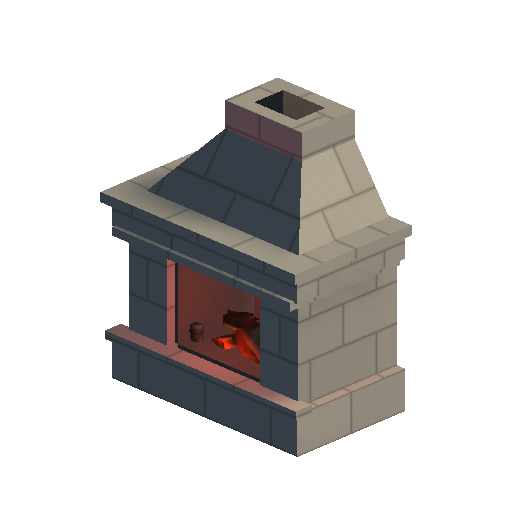
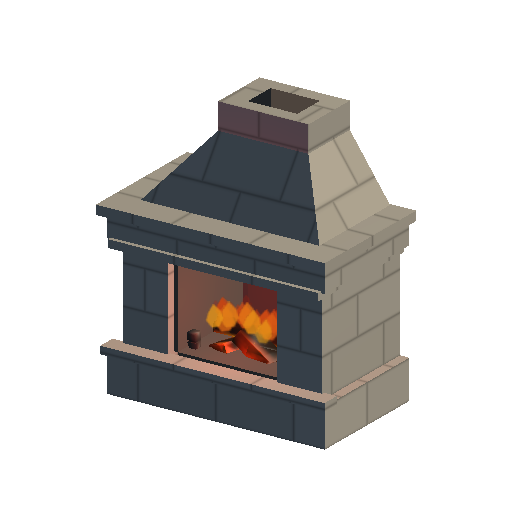
Improve fireplace flame motion, sound and placement

diff --git a/src/game/objects/fire/Fire.js b/src/game/objects/fire/Fire.js
@@ -76,9 +76,12 @@ export class Fire {
     if (!arePositiveFiniteNumbers(width, height, depth)) {
       return;
     }
-    const size = Math.min(width, depth, height * 0.18);
-    const count = Math.min(2048, Math.max(16, Math.ceil(width * depth / (size * size) * 2)));
-    const lifetime = 0.42;
+    // Broader, overlapping tongues stay connected to the fuel instead of
+    // reading as a shower of tiny upward-moving dots.
+    const size = Math.min(width, depth, height * 0.28);
+    const count = Math.min(2048, Math.max(16, Math.ceil(width * depth / (size * size) * 1.2)));
+    const lifetime = 0.85;
+    const rise = Math.max(0, height - size * 2) / lifetime;
     const requestedIntensity = definition.intensity ?? 1;
     const intensity = Number.isFinite(requestedIntensity) ? Math.max(0, requestedIntensity) : 1;
     const emitter = new pc.Entity("Rising fire particles");
@@ -104,20 +107,20 @@ export class Fire {
       emitterExtents: new pc.Vec3(Math.max(0, width - size * 2), 0, Math.max(0, depth - size * 2)),
       colorMap: app.assets.find("castleFireParticle", "texture").resource,
       orientation: pc.PARTICLEORIENTATION_SCREEN,
-      localVelocityGraph: new pc.CurveSet([[0, 0, 1, 0], [0, (height - size * 2) / lifetime, 1, (height - size * 2) / lifetime], [0, 0, 1, 0]]),
-      scaleGraph: new pc.Curve([0, size, 0.3, size, 1, 0]),
-      scaleGraph2: new pc.Curve([0, size * 0.45, 0.3, size * 0.65, 1, 0]),
-      localVelocityGraph2: new pc.CurveSet([[0, 0, 1, 0], [0, (height - size * 2) * 0.5 / lifetime, 1, (height - size * 2) * 0.5 / lifetime], [0, 0, 1, 0]]),
+      localVelocityGraph: new pc.CurveSet([[0, -size * 0.2, 0.5, size * 0.35, 1, -size * 0.15], [0, rise * 0.6, 0.35, rise * 1.2, 1, rise * 0.8], [0, -size * 0.12, 1, size * 0.12]]),
+      scaleGraph: new pc.Curve([0, size * 0.8, 0.2, size, 0.65, size * 0.6, 1, 0]),
+      scaleGraph2: new pc.Curve([0, size * 0.65, 0.25, size * 0.8, 0.7, size * 0.35, 1, 0]),
+      localVelocityGraph2: new pc.CurveSet([[0, size * 0.2, 0.5, -size * 0.35, 1, size * 0.15], [0, rise * 0.4, 0.35, rise * 0.85, 1, rise * 0.6], [0, size * 0.12, 1, -size * 0.12]]),
       colorGraph: new pc.CurveSet([[0, 1, 1, 0.74], [0, 0.72, 0.42, 0.3, 1, 0.025], [0, 0.08, 1, 0]]),
-      alphaGraph: new pc.Curve([0, 0, 0.02, 0.8, 0.58, 0.5, 1, 0]),
-      alignToMotion: true,
-      stretch: height * 0.14,
+      alphaGraph: new pc.Curve([0, 0, 0.12, 0.85, 0.45, 0.75, 0.8, 0.25, 1, 0]),
+      alignToMotion: false,
+      stretch: 0,
       startAngle: -8,
       startAngle2: 8,
     });
     root.addChild(emitter);
     if (intensity > 0) {
-      new FireAudio(root, app, runtime, 0.12);
+      new FireAudio(root, app, runtime, 0.65);
     }
   }
 

diff --git a/test/unit/game/objects/fire/fire.test.js b/test/unit/game/objects/fire/fire.test.js
@@ -82,10 +82,14 @@ test('one volume creates one emitter with derived footprint, height and density'
   // Box spawning already applies world rotation; avoid rotating it again at render.
   assert.equal(particles.localSpace, false);
   assert.equal(particles.intensity, 1.08);
-  assert.equal(particles.emitterExtents.x, 1.6400000000000001);
-  assert.equal(particles.emitterExtents.z, 0.64);
-  assert.equal(particles.numParticles, 124);
-  assert.equal(particles.localVelocityGraph.keys[1][1], 0.64 / 0.42);
+  assert.equal(particles.emitterExtents.x, 1.44);
+  assert.equal(particles.emitterExtents.z, 0.43999999999999995);
+  assert.equal(particles.numParticles, 31);
+  // Motion varies through the lifetime, while remaining an upward flow.
+  const vertical = particles.localVelocityGraph.keys[1];
+  assert.ok(vertical[1] > 0 && vertical[3] > vertical[1] && vertical[5] > 0);
+  assert.equal(particles.alignToMotion, false);
+  assert.equal(particles.stretch, 0);
   fire.destroy();
   assert.equal(fire.entity.destroyed, true);
 });
@@ -113,8 +117,8 @@ test('intensity changes brightness independently of the box and zero disables fl
     const emitter = fire.entity.children[0].children[0];
     assert.equal(emitter.enabled, intensity > 0);
     assert.equal(emitter.particlesystem.intensity, 1.08 * intensity);
-    assert.equal(emitter.particlesystem.emitterExtents.x, 1.6400000000000001);
-    assert.equal(emitter.particlesystem.localVelocityGraph.keys[1][1], 0.64 / 0.42);
+    assert.equal(emitter.particlesystem.emitterExtents.x, 1.44);
+    assert.ok(emitter.particlesystem.localVelocityGraph.keys[1][1] > 0);
     fire.destroy();
   }
 });

diff --git a/test/unit/game/generator/castle/rooms/kitchen/kitchen-room-generator.test.js b/test/unit/game/generator/castle/rooms/kitchen/kitchen-room-generator.test.js
@@ -192,6 +192,21 @@ test("active authored pipeline publishes kitchen objects and replaces old seeded
   assert.ok(bowls.some(bowl => bowl.color === "#b16832" && bowl.items.every(item => item.object === "GreenVegetable")));
   assert.ok(first.find(item => item.object === "Fireplace").chimneyHeight > 9,
     "basement chimney reaches above the keep roof rather than the terrace");
+  const generatedHearth = first.find(item => item.object === "Fireplace");
+  const fire = first.find(item => item.id === `${generatedHearth.id}-fire`);
+  const scale = generatedHearth.scale ?? 1;
+  const angle = generatedHearth.rotation * Math.PI / 180;
+  const dx = (fire.position.x - generatedHearth.position.x) / scale;
+  const dz = (fire.position.z - generatedHearth.position.z) / scale;
+  const localX = Math.cos(angle) * dx - Math.sin(angle) * dz;
+  const localZ = Math.sin(angle) * dx + Math.cos(angle) * dz;
+  assert.ok(Math.abs(localX) + fire.volume.x / scale / 2 < 0.326,
+    "flames fit between the soot side linings");
+  assert.ok(localZ - fire.volume.z / scale / 2 > -0.34 &&
+    localZ + fire.volume.z / scale / 2 < 0.285,
+  "flame footprint stays inside the open firebox depth");
+  assert.ok((fire.position.y - generatedHearth.position.y) / scale >= 0.36,
+    "flames start on the log pile rather than under its opaque upper faces");
   KitchenRoomMapObjects.prepareMap(map);
   assert.deepEqual(map.objects.slice(1), first);
   castle.buildPlan = await CastleAuthoredBuildPlan.generate({

diff --git a/src/game/objects/castle/rooms/kitchen/KitchenRoomMapObjects.js b/src/game/objects/castle/rooms/kitchen/KitchenRoomMapObjects.js
@@ -63,15 +63,17 @@ export class KitchenRoomMapObjects {
             id: `${id}-fire`,
             object: "Fire",
             position: {
-              x: position.x - Math.sin(angle) * 0.06 * scale,
-              y: position.y + 0.29 * scale,
-              z: position.z - Math.cos(angle) * 0.06 * scale,
+              // Seat the flames on the log pile, in front of the rear lining.
+              // A full-depth emitter intersects the wood and clips at oblique views.
+              x: position.x + Math.sin(angle) * 0.1 * scale,
+              y: position.y + 0.38 * scale,
+              z: position.z + Math.cos(angle) * 0.1 * scale,
             },
             rotation,
             volume: {
-              x: 0.64 * scale,
+              x: 0.56 * scale,
               y: 0.3 * scale,
-              z: 0.6 * scale,
+              z: 0.3 * scale,
             },
             intensity: 0.75,
             generated: true,
